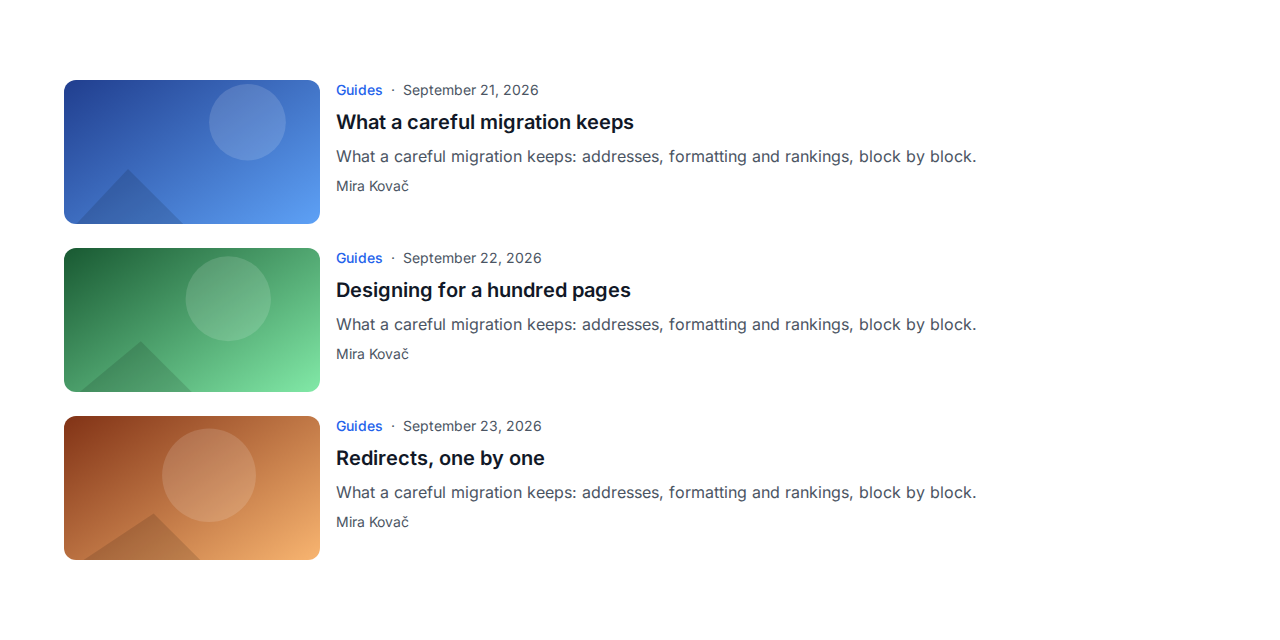
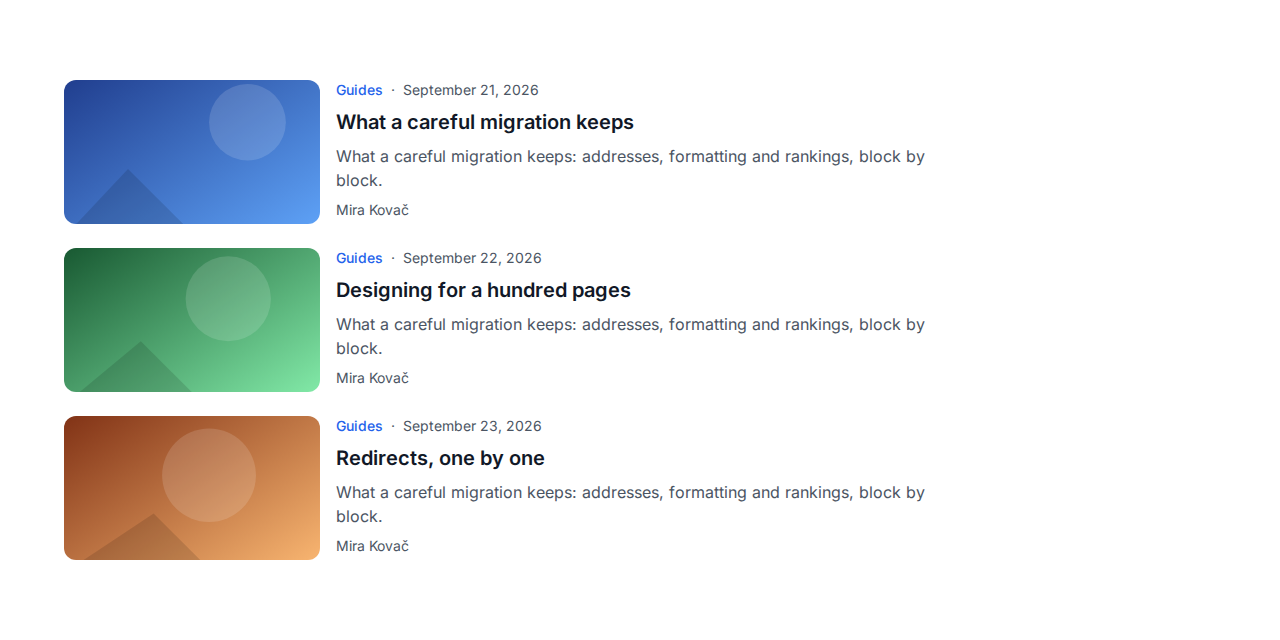
feat(astro-kit): PostList card read-more words, date style, 62ch excerpt (#642)

diff --git a/packages/astro-kit/tests/post-card.test.ts b/packages/astro-kit/tests/post-card.test.ts
@@ -25,9 +25,9 @@ describe('PostCard: the source\'s read-more words, its date style, and a readabl
     expect(card).not.toContain("dateStyle: 'long'")
   })
 
-  it('caps the excerpt at ~75 characters a line in every layout', async () => {
+  it('caps the excerpt at ~62ch a line in every layout (75ch ran ~95 real characters, over the 90 limit)', async () => {
     const card = await readFile(COPIES[0]!, 'utf8')
-    expect(card).toContain("excerpt: 'max-w-[75ch] text-ink-muted'")
+    expect(card).toContain("excerpt: 'max-w-[62ch] text-ink-muted'")
   })
 
   it('the starter\'s lists pass the site\'s read-more words and date style; absent, the card is as before', async () => {

diff --git a/.changeset/post-list-card-labels.md b/.changeset/post-list-card-labels.md
@@ -1,0 +1,5 @@
+---
+"@contentrain/astro-kit": minor
+---
+
+PostList passes the source's read-more words and date style through to its cards: `readMoreLabel` (shown under each card's excerpt; the list's own `moreLabel` stays the archive link's text) and `dateStyle` (`full` / `long` / `medium` / `short`; absent, long). PostCard's excerpt line is capped at 62ch instead of 75ch: 75ch ran about 95 real characters a line, over the 90 the readability check allows.
